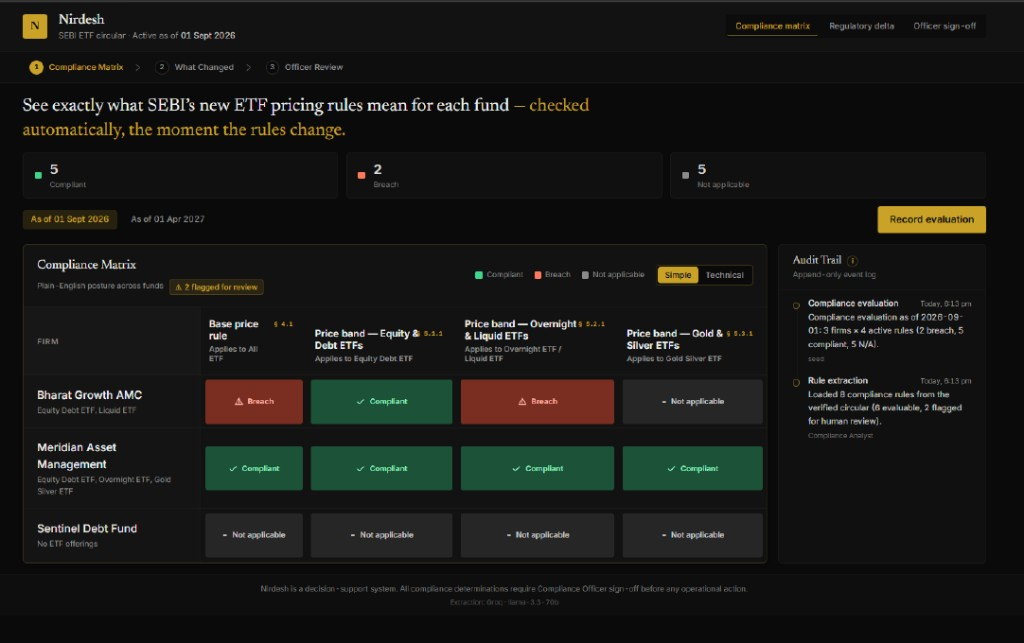
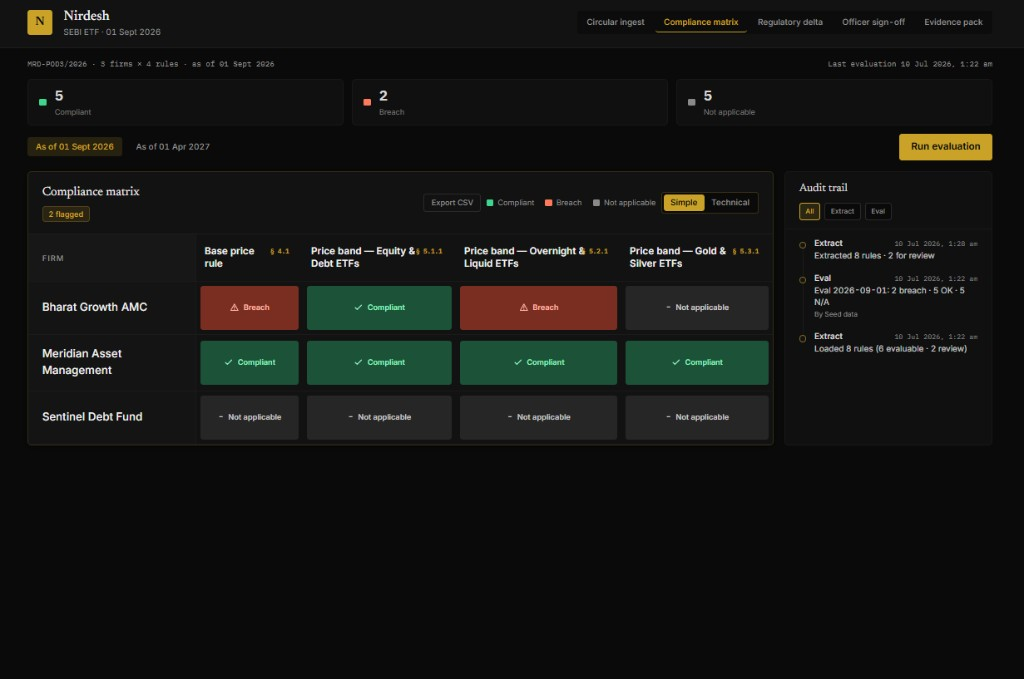
Add complete screenshot set and refresh submission docs.
Replace outdated UI captures with all 12 workflow screenshots, update README preview gallery, and align checklist/PPT/submission notes with the live prototype.

diff --git a/README.md b/README.md
@@ -26,7 +26,7 @@ Interactive API docs: https://nirdesh-backend.onrender.com/docs
 
 ### 2-minute demo script
 
-1. **Circular ingest** — upload [`backend/data/circular_MRD-POD3-2026_ORIGINAL.pdf`](backend/data/circular_MRD-POD3-2026_ORIGINAL.pdf). Show extracted rules, review flags, and QA preview (*matrix uses seeded canonical ruleset*).
+1. **Circular ingest** — upload [`backend/data/circular_MRD-POD3-2026_ORIGINAL.pdf`](backend/data/circular_MRD-POD3-2026_ORIGINAL.pdf). Circular ID is pre-filled for the demo corpus. Show extracted rules, review flags, and QA preview (*Draft — not persisted; matrix uses human-reviewed canonical ruleset*).
 2. **Compliance matrix** — as of **01 Sept 2026**: Bharat Growth breach, Meridian compliant, Sentinel N/A. Click a firm for its case file. Optional: Export CSV, Simple/Technical views.
 3. **Regulatory delta** — **Apply amendment**. Meridian flips compliant → breach for Phase 2 (§4.4).
 4. **Officer sign-off** — Generate tasks → Mark reviewed as **A. Sharma**.
@@ -117,38 +117,33 @@ State-changing actions (apply amendment, generate tasks, mark reviewed) are **id
 - **Meridian Asset Management** — compliant on Phase 1, **flips to breach** when §4.4 is applied
 - **Sentinel Debt Fund** — not applicable (no ETF schemes)
 
-### Screenshots (current UI — Jul 2026 refresh)
+### Screenshots (live prototype — Jul 2026)
 
-> **Replace all images below** after you capture the new set. Full capture instructions: **[docs/assets/screenshots/SCREENSHOT_CHECKLIST.md](docs/assets/screenshots/SCREENSHOT_CHECKLIST.md)**
+Full capture list: **[docs/assets/screenshots/SCREENSHOT_CHECKLIST.md](docs/assets/screenshots/SCREENSHOT_CHECKLIST.md)** · PPT guide: [docs/PPT_IMPROVEMENT.md](docs/PPT_IMPROVEMENT.md)
 
-Send **12 required screenshots** (filenames below). Old repo images are outdated (raw JSON audit, code-style profiles).
+| # | View | File |
+|---|------|------|
+| 1 | Matrix — Simple, Phase 1 | `01-matrix-simple-phase1.png` |
+| 2 | Matrix — Technical, Phase 1 | `02-matrix-technical-phase1.png` |
+| 3 | Matrix — Phase 2 (Meridian breach) | `03-matrix-phase2.png` |
+| 4 | Firm case file — Bharat | `04-firm-casefile-bharat.png` |
+| 5 | Rule drawer — condition | `05-rule-drawer.png` |
+| 6 | Circular ingest — extracted | `06-ingest-extracted.png` |
+| 7 | Regulatory delta — before apply | `07-delta-before-apply.png` |
+| 8 | Regulatory delta — after apply | `08-delta-after-apply.png` |
+| 9 | Officer sign-off — pending | `09-officer-signoff-pending.png` |
+| 10 | Officer sign-off — reviewed | `10-officer-signoff-reviewed.png` |
+| 11 | Evidence pack preview | `11-evidence-pack.png` |
+| 12 | Audit trail — Review Details | `12-audit-trail-details.png` |
 
-| # | View | File | PPT slide |
-|---|------|------|-----------|
-| 1 | Matrix — Simple, Phase 1 | `01-matrix-simple-phase1.png` | Live Demo — Matrix |
-| 2 | Matrix — Technical, Phase 1 | `02-matrix-technical-phase1.png` | Optional / appendix |
-| 3 | Matrix — Phase 2 (Meridian breach) | `03-matrix-phase2.png` | Demo Scenario / Matrix |
-| 4 | Firm case file — Bharat | `04-firm-casefile-bharat.png` | Live Demo — Matrix |
-| 5 | Rule drawer — condition | `05-rule-drawer.png` | Solution / Architecture |
-| 6 | Circular ingest — extracted | `06-ingest-extracted.png` | Live Demo — Ingest |
-| 7 | Regulatory delta — before apply | `07-delta-before-apply.png` | Regulatory Delta |
-| 8 | Regulatory delta — after apply | `08-delta-after-apply.png` | Regulatory Delta |
-| 9 | Officer sign-off — pending | `09-officer-signoff-pending.png` | Sign-off |
-| 10 | Officer sign-off — reviewed | `10-officer-signoff-reviewed.png` | Sign-off + Evidence |
-| 11 | Evidence pack preview | `11-evidence-pack.png` | Evidence Pack |
-| 12 | Audit trail — Details expanded | `12-audit-trail-details.png` | Technology / Governance |
+**Preview:**
 
-**Preview (update when new files land):**
-
-| View | Screenshot | Status |
-|------|------------|--------|
-| Compliance matrix (simple, Phase 1) | ![Matrix — simple](docs/assets/screenshots/01-matrix-simple-phase1.png) | **Replace** |
-| Compliance matrix (technical) | ![Matrix — technical](docs/assets/screenshots/02-matrix-technical-phase1.png) | **Replace** |
-| Regulatory delta (before apply) | ![Delta — preview](docs/assets/screenshots/03-delta-before-apply.png) | **Replace** |
-| Meridian flip after apply | ![Delta — Meridian](docs/assets/screenshots/04-delta-meridian-flip.png) | **Replace** |
-| Officer sign-off | ![Sign-off](docs/assets/screenshots/05-officer-signoff.png) | **Replace** |
-
-PPT slide-by-slide guide: [docs/PPT_IMPROVEMENT.md](docs/PPT_IMPROVEMENT.md)
+| View | Screenshot |
+|------|------------|
+| Compliance matrix (Phase 1) | ![Matrix](docs/assets/screenshots/01-matrix-simple-phase1.png) |
+| Circular ingest | ![Ingest](docs/assets/screenshots/06-ingest-extracted.png) |
+| Regulatory delta (after apply) | ![Delta](docs/assets/screenshots/08-delta-after-apply.png) |
+| Evidence pack | ![Evidence](docs/assets/screenshots/11-evidence-pack.png) |
 
 ---
 

diff --git a/docs/README.md b/docs/README.md
@@ -5,19 +5,29 @@
 | [ARCHITECTURE.md](./ARCHITECTURE.md) | System diagrams (Mermaid), component map, idempotency, deployment |
 | [DEMO_CORPUS.md](./DEMO_CORPUS.md) | Why this circular, 2026 vs 2027 phases, firms, rules, source PDF |
 | [SUBMISSION_NOTES.md](./SUBMISSION_NOTES.md) | Hackathon deck / form alignment checklist |
+| [SUBMISSION_FORM.md](./SUBMISSION_FORM.md) | HackCulture form copy-paste fields |
+| [PPT_IMPROVEMENT.md](./PPT_IMPROVEMENT.md) | Slide-by-slide deck guide |
 | [assets/screenshots/](./assets/screenshots/) | UI screenshots for README and deck |
 
-## Screenshots (for deck / README)
+## Screenshots (complete set)
+
+All files live in [`assets/screenshots/`](./assets/screenshots/). See [SCREENSHOT_CHECKLIST.md](./assets/screenshots/SCREENSHOT_CHECKLIST.md) for capture notes.
 
 | File | Use in deck |
 |---|---|
-| `01-matrix-simple-phase1.png` | Slide: compliance matrix — plain-English view |
-| `02-matrix-technical-phase1.png` | Slide: deterministic fields / technical proof |
-| `03-delta-before-apply.png` | Slide: regulatory delta detected |
-| `04-delta-meridian-flip.png` | Slide: amendment impact — Meridian compliant → breach |
-| `05-officer-signoff.png` | Slide: human-in-the-loop / governance |
-
-Also capture live screenshots of **Circular ingest** and **Evidence pack** for the deck if not already included.
+| `01-matrix-simple-phase1.png` | Compliance matrix — plain-English view |
+| `02-matrix-technical-phase1.png` | Deterministic fields / technical proof |
+| `03-matrix-phase2.png` | Phase 2 — Meridian breach |
+| `04-firm-casefile-bharat.png` | Firm case file drawer |
+| `05-rule-drawer.png` | Structured rule condition + citation |
+| `06-ingest-extracted.png` | Circular ingest + review flags |
+| `07-delta-before-apply.png` | Regulatory delta preview |
+| `08-delta-after-apply.png` | Amendment applied — Meridian flip |
+| `09-officer-signoff-pending.png` | Pending review tasks |
+| `10-officer-signoff-reviewed.png` | Officer sign-off complete |
+| `11-evidence-pack.png` | Evidence pack preview |
+| `12-audit-trail-details.png` | Audit trail — Review Details expanded |
+| `14-ingest-qa.png` | Optional — Approve/Reject on flagged rules |
 
 ## Primary source files
 

diff --git a/docs/assets/screenshots/SCREENSHOT_CHECKLIST.md b/docs/assets/screenshots/SCREENSHOT_CHECKLIST.md
@@ -4,7 +4,7 @@
 **Save all files here:** `docs/assets/screenshots/`  
 **Format:** PNG, width ~1400–1600px, compress to **&lt;400 KB** each for PPT.
 
-> **UI refresh (commit `8d0353e`):** Human-readable audit details, firm profiles, rule conditions, breach lines — **no raw JSON**. Old screenshots in this folder are **outdated** until you replace them.
+> **UI refresh (Jul 2026):** Human-readable audit details, firm profiles, rule conditions, breach lines — **no raw JSON**. All 12 required screenshots are in this folder.
 
 ---
 
@@ -21,9 +21,9 @@
 | 7 | `07-delta-before-apply.png` | Regulatory delta | Before **Apply amendment** · §4.1 → §4.4 preview · Meridian transition shown |
 | 8 | `08-delta-after-apply.png` | Regulatory delta | After **Apply** (or applied state) · firms newly flagged / Meridian flip |
 | 9 | `09-officer-signoff-pending.png` | Officer sign-off | **Awaiting sign-off** with ≥1 pending task · breach line in plain English |
-| 10 | `10-officer-signoff-reviewed.png` | Officer sign-off | Same tasks **Reviewed** by **A. Sharma** |
+| 10 | `10-officer-signoff-reviewed.png` | Officer sign-off | All tasks **Signed off** (0 open) · officer name visible |
 | 11 | `11-evidence-pack.png` | Evidence pack | Preview loaded · metric tiles · breach citations · **Download PDF** button |
-| 12 | `12-audit-trail-details.png` | Matrix (audit panel right) | Audit trail · click **Details** on an **Eval** event · labeled rows (As of, Outcome) — **not** a JSON block |
+| 12 | `12-audit-trail-details.png` | Matrix (audit panel right) | Audit trail · **Details** on a **Review** or **Amendment** event · labeled rows (Firm, Clause, Task / Superseded counts) — **not** raw JSON. Eval events show outcome in the message line only. |
 
 ---
 
@@ -48,9 +48,10 @@
 
 ---
 
-## After you send screenshots
+## Status
 
-1. Drop files into `docs/assets/screenshots/`
-2. Recreate PPT using [PPT_IMPROVEMENT.md](../../PPT_IMPROVEMENT.md)
-3. Record Loom (short script will be provided on request)
-4. Paste Loom URL in HackCulture form → **Save**
+All 12 required screenshots captured (Jul 10, 2026). Next steps:
+
+1. Recreate PPT using [PPT_IMPROVEMENT.md](../../PPT_IMPROVEMENT.md)
+2. Record Loom demo video (under 3 min)
+3. Paste Loom URL in HackCulture form → **Save**

diff --git a/docs/SUBMISSION_NOTES.md b/docs/SUBMISSION_NOTES.md
@@ -33,6 +33,19 @@
 - Verbatim source citations on breaches and in the PDF.
 - Live URLs in README (Render may cold-start).
 
+## Screenshots (complete — in repo)
+
+All 12 files in [`docs/assets/screenshots/`](assets/screenshots/). PPT mapping: [PPT_IMPROVEMENT.md](PPT_IMPROVEMENT.md).
+
+| Slide topic | Files |
+|---|---|
+| Ingest | `06-ingest-extracted.png` |
+| Matrix | `01-matrix-simple-phase1.png` + `04-firm-casefile-bharat.png` |
+| Delta | `07-delta-before-apply.png` + `08-delta-after-apply.png` |
+| Sign-off | `09-officer-signoff-pending.png` → `10-officer-signoff-reviewed.png` |
+| Evidence | `11-evidence-pack.png` |
+| Governance | `12-audit-trail-details.png` |
+
 ## Do not claim as built today
 
 - Celery/Redis job queue as current infra

diff --git a/docs/PPT_IMPROVEMENT.md b/docs/PPT_IMPROVEMENT.md
@@ -27,7 +27,7 @@ Match the **live prototype**: https://nirdesh-frontend.onrender.com
 | `09-officer-signoff-pending.png` | Sign-off | Pending queue |
 | `10-officer-signoff-reviewed.png` | Sign-off + Evidence | Reviewed by A. Sharma |
 | `11-evidence-pack.png` | Evidence Pack | Preview metrics · Download PDF |
-| `12-audit-trail-details.png` | Technology / Governance | Eval **Details** — As of / Outcome rows |
+| `12-audit-trail-details.png` | Technology / Governance | Review or Amendment **Details** expanded — labeled rows, not JSON |
 
 ### Deprecated (delete from PPT if still embedded)
 
@@ -185,7 +185,7 @@ One circular · two deadlines · Meridian flips when §4.4 supersedes §4.1
 
 **Bullets:**
 - In-app preview + Download PDF
-- Audit trail: human-readable event details (As of, Outcome, Officer)
+- Audit trail: human-readable event details (Review/Amendment Details; Eval outcome in message line)
 - Governance: decision-support only
 
 ---

diff --git a/docs/SUBMISSION_FORM.md b/docs/SUBMISSION_FORM.md
@@ -139,7 +139,7 @@ https://github.com/ayushanand27/nirdesh
 
 ## Before you click Save
 
-- [ ] **12 new screenshots** captured per [SCREENSHOT_CHECKLIST.md](assets/screenshots/SCREENSHOT_CHECKLIST.md) (old repo images are outdated)
+- [x] **12 screenshots** in `docs/assets/screenshots/` (complete Jul 10, 2026)
 - [ ] PPT recreated with new screenshots (see [PPT_IMPROVEMENT.md](../PPT_IMPROVEMENT.md)) and re-uploaded if slides changed
 - [ ] Demo video URL filled (Loom, unlisted or public, under 3 min)
 - [ ] PPT uses Meridian / Sentinel / Bharat (not Alpha / Pinnacle)